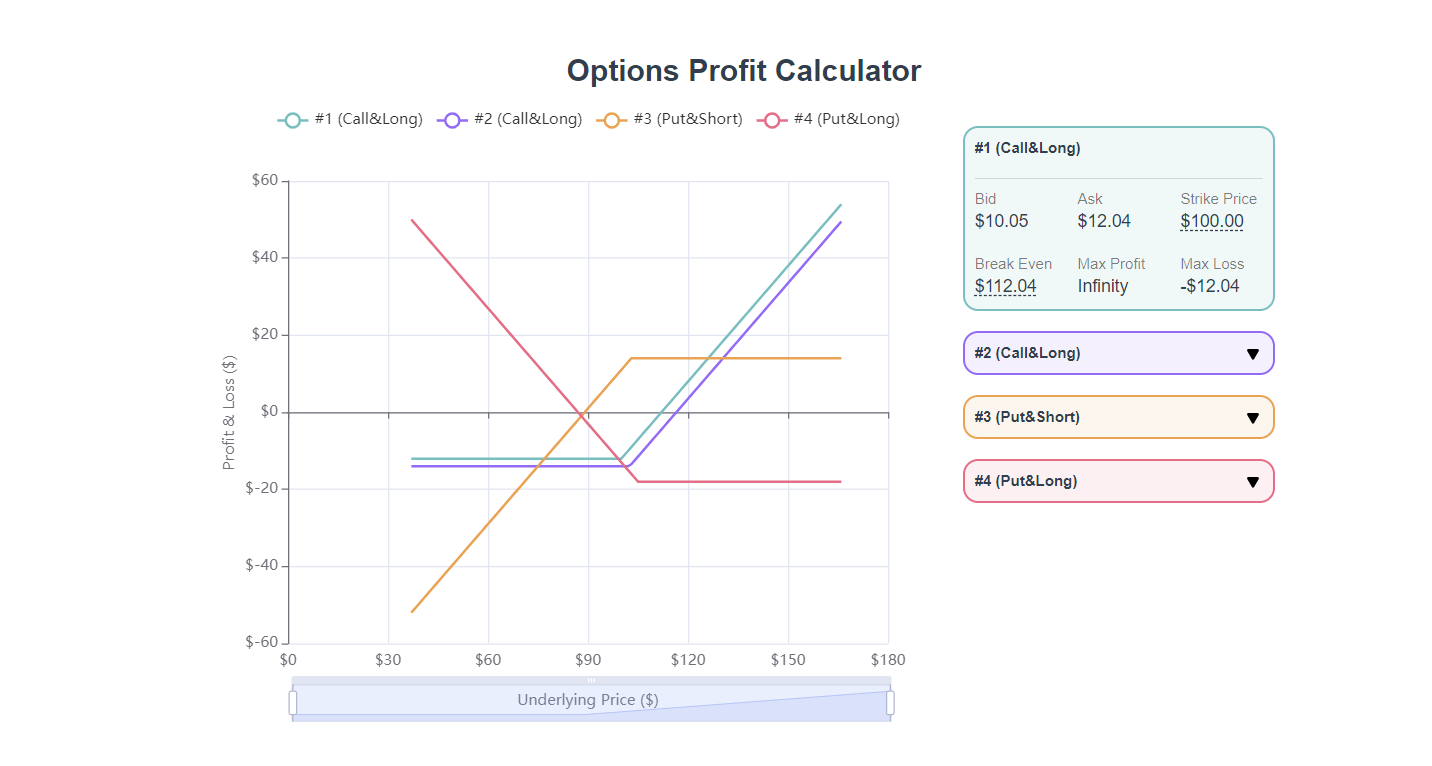
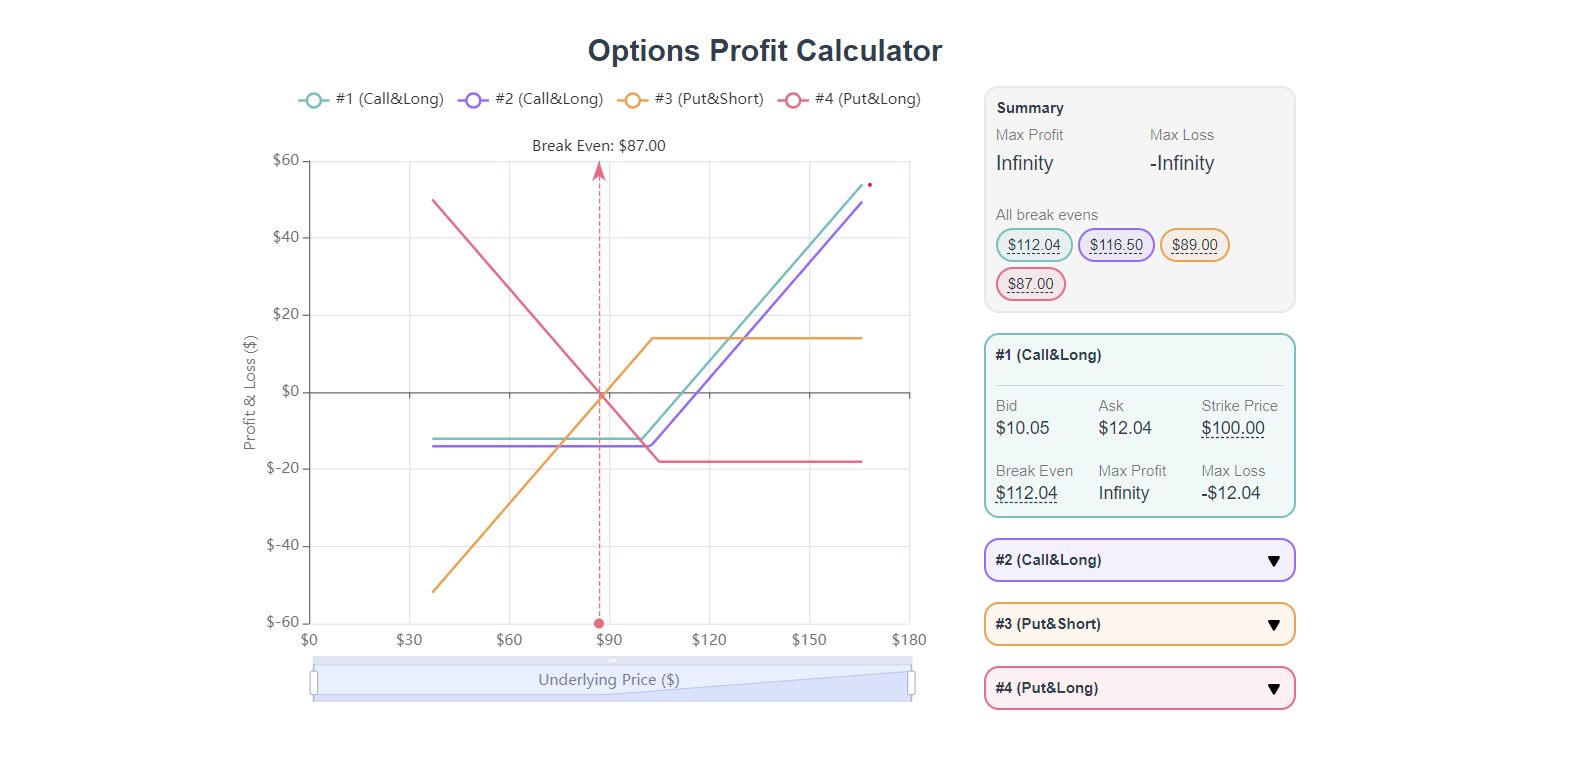
feat: add summary to side panel

diff --git a/src/components/SidePanel.vue b/src/components/SidePanel.vue
@@ -1,80 +1,96 @@
 <template>
-  <ul class="gap-4 text-left flex flex-col my-4 items-start" data-testid="side-panel">
-    <li
-      v-for="(option, index) in options"
-      :key="index"
-      :style="`border-color: ${colors[index]}; background-color: ${ligtenColors[index]}`"
-      class="border-solid border-2 rounded-xl min-w-[250px]"
-    >
-      <button
-        class="p-2 w-full text-left flex items-center"
-        @click="open.index = index"
-        :disabled="open.index === index"
-      >
-        <div class="text-xs font-bold">{{ getLineLabel(option, index) }}</div>
+  <section class="text-left">
+    <div class="bg-black/[0.04] border-solid border-2 rounded-xl w-[250px] p-2" data-testid="summary">
+      <div class="text-xs font-bold">Summary</div>
 
-        <svg
-          v-if="open.index !== index"
-          width="16"
-          height="16"
-          viewBox="0 0 16 16"
-          fill="none"
-          xmlns="http://www.w3.org/2000/svg"
-          class="ml-auto"
-        >
-          <path
-            d="M8.86615 12.8053C8.48125 13.472 7.519 13.472 7.1341 12.8053L3.4056 6.34735C3.0207 5.68069 3.50182 4.84735 4.27163 4.84735L11.7286 4.84735C12.4984 4.84735 12.9795 5.68068 12.5946 6.34735L8.86615 12.8053Z"
-            class="fill-black"
-          />
-        </svg>
-      </button>
+      <div class="grid grid-cols-2 gap-4">
+        <div data-testid="max-profit"><span class="text-xs text-black/50">Max Profit</span><br />{{ maxProfit }}</div>
+        <div data-testid="max-loss"><span class="text-xs text-black/50">Max Loss</span><br />{{ maxLoss }}</div>
 
-      <div class="px-2 pb-2" v-if="open.index === index" data-testid="details">
-        <hr class="my-2 border-gray-300" />
-        <div class="text-sm grid grid-cols-3 gap-4">
-          <div data-testid="bid">
-            <div class="text-xs text-black/50">Bid</div>
-            {{ toCurrency(option.bid) }}
-          </div>
-
-          <div data-testid="ask">
-            <div class="text-xs text-black/50">Ask</div>
-            {{ toCurrency(option.ask) }}
-          </div>
-
-          <div data-testid="strike-price">
-            <div class="text-xs text-black/50">Strike Price</div>
-            <button
-              class="underline decoration-dashed underline-offset-2 decoration-from-font"
-              @click="$emit('select-strike-price', option.strike_price, index)"
-            >
-              {{ toCurrency(option.strike_price) }}
-            </button>
-          </div>
-
-          <div data-testid="break-even">
-            <div class="text-xs text-black/50">Break Even</div>
-            <button
-              class="underline decoration-dashed underline-offset-2 decoration-from-font"
-              @click="$emit('select-break-even', getBreakEven(option), index)"
-            >
-              {{ toCurrency(getBreakEven(option)) }}
-            </button>
-          </div>
-
-          <div data-testid="max-profit">
-            <div class="text-xs text-black/50">Max Profit</div>
-            {{ getMaxReward(option) }}
-          </div>
-
-          <div data-testid="max-loss">
-            <div class="text-xs text-black/50">Max Loss</div>
-            {{ getMinReward(option) }}
-          </div>
+        <div class="col-span-2" data-testid="break-evens">
+          <span class="text-xs text-black/50">All break evens</span>
+          <br />
+          <ul class="flex flex-wrap gap-1">
+            <li v-for="(breakEven, index) in allBreakEvens" :key="index">
+              <button
+                :style="`border-color: ${colors[index]}; background-color: ${ligtenColors[index]}`"
+                class="border-solid border-2 underline decoration-dashed underline-offset-2 decoration-from-font rounded-full px-2 py-1 text-xs"
+                @click="$emit('select-break-even', breakEven, index)"
+              >
+                {{ toCurrency(breakEven) }}
+              </button>
+            </li>
+          </ul>
         </div>
       </div>
-    </li>
-  </ul>
+    </div>
+
+    <ul class="gap-4 flex flex-col my-4 items-start" data-testid="options">
+      <li
+        v-for="(option, index) in options"
+        :key="index"
+        :style="`border-color: ${colors[index]}; background-color: ${ligtenColors[index]}`"
+        class="border-solid border-2 rounded-xl min-w-[250px]"
+      >
+        <button class="p-2 w-full flex items-center" @click="open.index = index" :disabled="open.index === index">
+          <div class="text-xs font-bold">{{ getLineLabel(option, index) }}</div>
+          <svg
+            v-if="open.index !== index"
+            width="16"
+            height="16"
+            viewBox="0 0 16 16"
+            fill="none"
+            xmlns="http://www.w3.org/2000/svg"
+            class="ml-auto"
+          >
+            <path
+              d="M8.86615 12.8053C8.48125 13.472 7.519 13.472 7.1341 12.8053L3.4056 6.34735C3.0207 5.68069 3.50182 4.84735 4.27163 4.84735L11.7286 4.84735C12.4984 4.84735 12.9795 5.68068 12.5946 6.34735L8.86615 12.8053Z"
+              class="fill-black"
+            />
+          </svg>
+        </button>
+        <div class="px-2 pb-2" v-if="open.index === index" data-testid="details">
+          <hr class="mb-2 border-gray-300" />
+          <div class="text-sm grid grid-cols-3 gap-4">
+            <div data-testid="bid">
+              <div class="text-xs text-black/50">Bid</div>
+              {{ toCurrency(option.bid) }}
+            </div>
+            <div data-testid="ask">
+              <div class="text-xs text-black/50">Ask</div>
+              {{ toCurrency(option.ask) }}
+            </div>
+            <div data-testid="strike-price">
+              <div class="text-xs text-black/50">Strike Price</div>
+              <button
+                class="underline decoration-dashed underline-offset-2 decoration-from-font"
+                @click="$emit('select-strike-price', option.strike_price, index)"
+              >
+                {{ toCurrency(option.strike_price) }}
+              </button>
+            </div>
+            <div data-testid="break-even">
+              <div class="text-xs text-black/50">Break Even</div>
+              <button
+                class="underline decoration-dashed underline-offset-2 decoration-from-font"
+                @click="$emit('select-break-even', getBreakEven(option), index)"
+              >
+                {{ toCurrency(getBreakEven(option)) }}
+              </button>
+            </div>
+            <div data-testid="max-profit">
+              <div class="text-xs text-black/50">Max Profit</div>
+              {{ toCurrency(getMaxReward(option)) }}
+            </div>
+            <div data-testid="max-loss">
+              <div class="text-xs text-black/50">Max Loss</div>
+              {{ toCurrency(getMinReward(option)) }}
+            </div>
+          </div>
+        </div>
+      </li>
+    </ul>
+  </section>
 </template>
 
 <script lang="ts">
@@ -97,6 +113,9 @@ export default Vue.extend({
       open: reactive({ index: 0 }),
       colors: colors,
       ligtenColors: colors.map((color) => `${color}1a`),
+      maxProfit: this.options.reduce((acc, option) => acc + getMaxReward(option), 0),
+      maxLoss: this.options.reduce((acc, option) => acc + getMinReward(option), 0),
+      allBreakEvens: this.options.map((option) => getBreakEven(option)),
     };
   },
   methods: {

diff --git a/src/components/SidePanel.test.ts b/src/components/SidePanel.test.ts
@@ -4,33 +4,48 @@ import { fireEvent, render, screen, within } from "@testing-library/vue";
 import { describe, expect, it } from "vitest";
 import SidePanel from "./SidePanel.vue";
 
+const options = [
+  {
+    type: "Call",
+    long_short: "long",
+    strike_price: 100,
+    ask: 2,
+    bid: 1,
+    expiration_date: "2021-01-01",
+  },
+  {
+    type: "Put",
+    long_short: "short",
+    strike_price: 100,
+    ask: 2,
+    bid: 1,
+    expiration_date: "2021-01-01",
+  },
+];
+
 describe("SidePanel", () => {
-  it("renders multiple options", () => {
+  it("renders summary", () => {
     render(SidePanel, {
       props: {
-        options: [
-          {
-            type: "Call",
-            long_short: "long",
-            strike_price: 100,
-            ask: 2,
-            bid: 1,
-            expiration_date: "2021-01-01",
-          },
-          {
-            type: "Put",
-            long_short: "short",
-            strike_price: 100,
-            ask: 2,
-            bid: 1,
-            expiration_date: "2021-01-01",
-          },
-        ],
-        price: 100,
+        options,
       },
     });
 
-    const [first, ...others] = screen.getAllByRole("listitem");
+    const summary = within(screen.getByTestId("summary"));
+
+    expect(summary.getByTestId("max-profit")).toHaveTextContent(/Max Profit\s*Infinity/);
+    expect(summary.getByTestId("max-loss")).toHaveTextContent(/Max Loss\s*-Infinity/);
+    expect(summary.getByTestId("break-evens")).toHaveTextContent(/All break evens \$102.00 \$99.00/);
+  });
+
+  it("renders multiple options", () => {
+    render(SidePanel, {
+      props: {
+        options: options,
+      },
+    });
+
+    const [first, ...others] = within(screen.getByTestId("options")).getAllByRole("listitem");
     expect(within(first).getByTestId("bid").textContent).toMatchInlineSnapshot(`"Bid $1.00 "`);
     expect(within(first).getByTestId("ask").textContent).toMatchInlineSnapshot(`"Ask $2.00 "`);
     expect(within(first).getByTestId("strike-price").textContent).toMatchInlineSnapshot(`"Strike Price $100.00 "`);
@@ -68,7 +83,7 @@ describe("SidePanel", () => {
       },
     });
 
-    const [first, second] = screen.getAllByRole("listitem");
+    const [first, second] = within(screen.getByTestId("options")).getAllByRole("listitem");
     const expandButton = within(second).getAllByRole("button")[0];
 
     await fireEvent.click(expandButton);

diff --git a/src/utils/domain.test.ts b/src/utils/domain.test.ts
@@ -228,7 +228,7 @@ describe("Domain Utils", () => {
           bid: 1,
           expiration_date: "2021-01-01",
         });
-        expect(maxReward).toBe("Infinity");
+        expect(maxReward).toBe(Infinity);
       });
     });
 
@@ -242,7 +242,7 @@ describe("Domain Utils", () => {
           bid: 1,
           expiration_date: "2021-01-01",
         });
-        expect(maxReward).toBe("$1.00");
+        expect(maxReward).toBe(1);
       });
     });
 
@@ -256,7 +256,7 @@ describe("Domain Utils", () => {
           bid: 1,
           expiration_date: "2021-01-01",
         });
-        expect(maxReward).toBe("Infinity");
+        expect(maxReward).toBe(Infinity);
       });
     });
 
@@ -270,7 +270,7 @@ describe("Domain Utils", () => {
           bid: 1,
           expiration_date: "2021-01-01",
         });
-        expect(maxReward).toBe("$1.00");
+        expect(maxReward).toBe(1);
       });
     });
   });
@@ -303,7 +303,7 @@ describe("Domain Utils", () => {
           bid: 1,
           expiration_date: "2021-01-01",
         });
-        expect(minReward).toBe("-$2.00");
+        expect(minReward).toBe(-2);
       });
     });
 
@@ -317,7 +317,7 @@ describe("Domain Utils", () => {
           bid: 1,
           expiration_date: "2021-01-01",
         });
-        expect(minReward).toBe("-Infinity");
+        expect(minReward).toBe(-Infinity);
       });
     });
 
@@ -331,7 +331,7 @@ describe("Domain Utils", () => {
           bid: 1,
           expiration_date: "2021-01-01",
         });
-        expect(minReward).toBe("-$2.00");
+        expect(minReward).toBe(-2);
       });
     });
 
@@ -345,7 +345,7 @@ describe("Domain Utils", () => {
           bid: 1,
           expiration_date: "2021-01-01",
         });
-        expect(minReward).toBe("-Infinity");
+        expect(minReward).toBe(-Infinity);
       });
     });
   });

diff --git a/src/utils/domain.ts b/src/utils/domain.ts
@@ -22,18 +22,18 @@ export function getReward(price: number, option: OptionContract): number {
   throw new Error("Invalid option contract");
 }
 
-export function getMaxReward(option: OptionContract): string {
-  if (option.type === "Call" && option.long_short === "long") return "Infinity";
-  if (option.type === "Call" && option.long_short === "short") return toCurrency(option.bid);
-  if (option.type === "Put" && option.long_short === "long") return "Infinity";
-  if (option.type === "Put" && option.long_short === "short") return toCurrency(option.bid);
+export function getMaxReward(option: OptionContract): number {
+  if (option.type === "Call" && option.long_short === "long") return Infinity;
+  if (option.type === "Call" && option.long_short === "short") return option.bid;
+  if (option.type === "Put" && option.long_short === "long") return Infinity;
+  if (option.type === "Put" && option.long_short === "short") return option.bid;
   throw new Error("Invalid option contract");
 }
 
-export function getMinReward(option: OptionContract): string {
-  if (option.type === "Call" && option.long_short === "long") return toCurrency(-option.ask);
-  if (option.type === "Call" && option.long_short === "short") return "-Infinity";
-  if (option.type === "Put" && option.long_short === "long") return toCurrency(-option.ask);
-  if (option.type === "Put" && option.long_short === "short") return "-Infinity";
+export function getMinReward(option: OptionContract): number {
+  if (option.type === "Call" && option.long_short === "long") return -option.ask;
+  if (option.type === "Call" && option.long_short === "short") return -Infinity;
+  if (option.type === "Put" && option.long_short === "long") return -option.ask;
+  if (option.type === "Put" && option.long_short === "short") return -Infinity;
   throw new Error("Invalid option contract");
 }

diff --git a/src/components/CodingChallenge.test.ts b/src/components/CodingChallenge.test.ts
@@ -69,7 +69,7 @@ describe("CodingChallenge", () => {
       },
     });
 
-    const breakEvenContainer = within(screen.getByTestId("side-panel")).getByTestId("break-even");
+    const breakEvenContainer = within(screen.getByTestId("options")).getByTestId("break-even");
     await fireEvent.click(within(breakEvenContainer).getByRole("button"));
 
     const setOptionLastCall = setOption.mock.lastCall;

diff --git a/src/utils/currency.ts b/src/utils/currency.ts
@@ -1,4 +1,5 @@
 export function toCurrency(value: string | number): string {
+  if (value === Infinity || value === -Infinity) return `${value}`;
   if (isNaN(Number(value))) throw new Error("Invalid input");
   return Number(value).toLocaleString("en-US", { style: "currency", currency: "USD" });
 }
